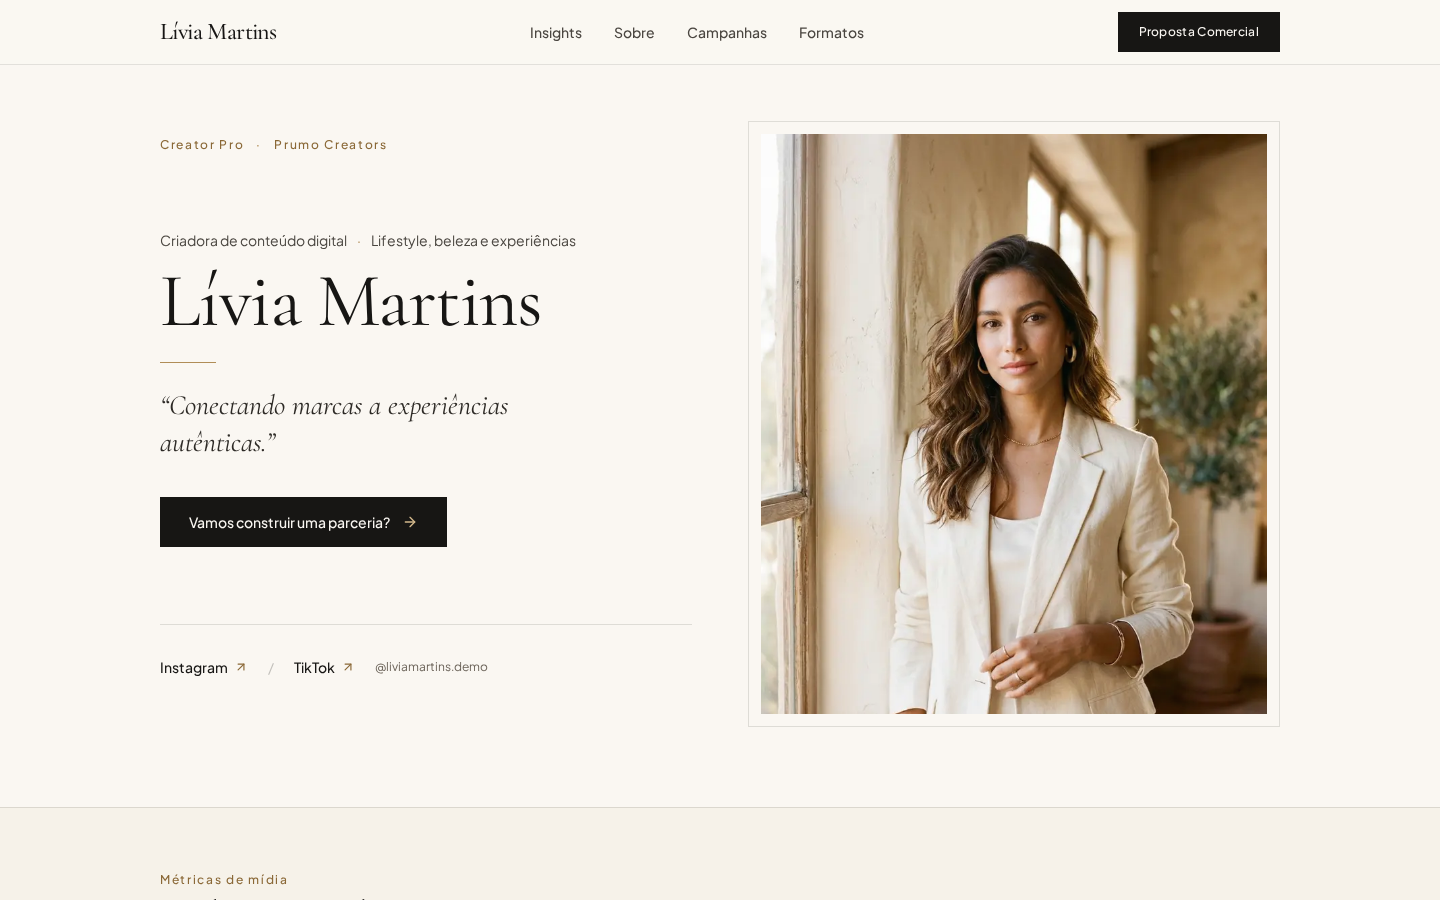
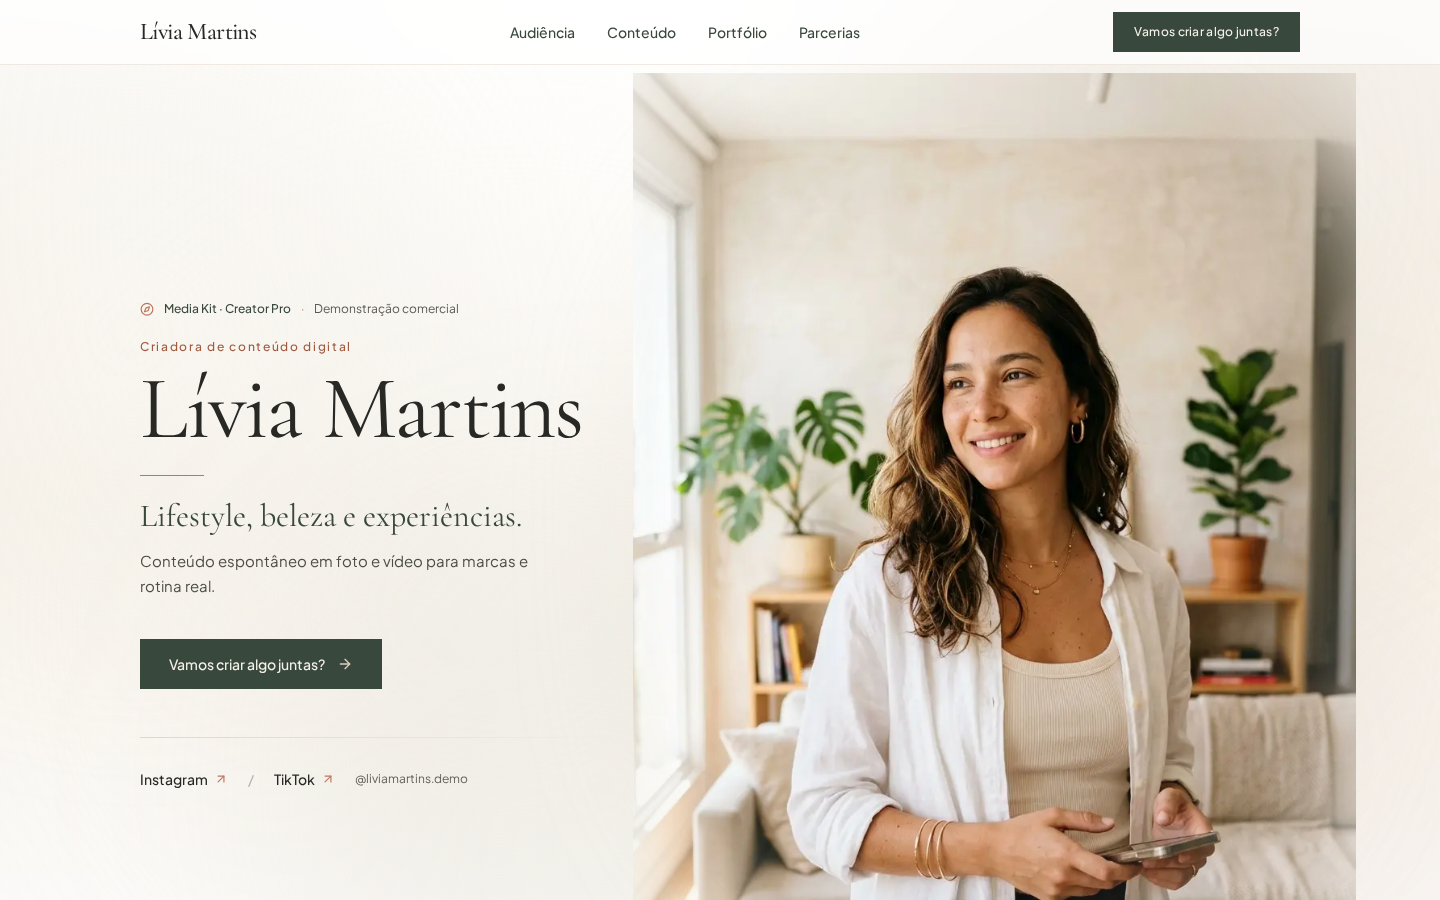
feat(portfolio): implement live site preview component
Add LiveSitePreview component to render interactive site snapshots with automatic scaling and fallback support in the portfolio section.

diff --git a/src/components/PortfolioSection.tsx b/src/components/PortfolioSection.tsx
@@ -34,6 +34,78 @@ const STACK_OFFSETS = [
   { x: -16, y: 14, scale: 0.91, rotate: -2.0, opacity: 0.36, zIndex: 5 },
 ];
 
+function LiveSitePreview({
+  url,
+  title,
+  fallbackImage,
+  fallbackAlt,
+  isFront,
+}: {
+  url: string;
+  title: string;
+  fallbackImage: string | null;
+  fallbackAlt: string;
+  isFront: boolean;
+}) {
+  const containerRef = useRef<HTMLDivElement | null>(null);
+  const [scale, setScale] = useState(0.5);
+  const [iframeLoaded, setIframeLoaded] = useState(false);
+  const [imgError, setImgError] = useState(false);
+
+  useEffect(() => {
+    setIframeLoaded(false);
+  }, [url]);
+
+  useEffect(() => {
+    const el = containerRef.current;
+    if (!el || typeof ResizeObserver === 'undefined') return;
+    const updateScale = () => {
+      const w = el.clientWidth;
+      if (w > 0) setScale(w / 1440);
+    };
+    updateScale();
+    const observer = new ResizeObserver(updateScale);
+    observer.observe(el);
+    return () => observer.disconnect();
+  }, []);
+
+  return (
+    <div ref={containerRef} className="relative w-full h-full overflow-hidden bg-[#0D0D0D]">
+      {fallbackImage && !imgError && (
+        <img
+          src={fallbackImage}
+          alt={fallbackAlt}
+          referrerPolicy="no-referrer"
+          draggable={false}
+          onError={() => setImgError(true)}
+          className={`w-full h-full object-cover object-top select-none transition-transform duration-500 ${
+            isFront ? 'group-hover/media:scale-[1.015]' : ''
+          }`}
+        />
+      )}
+
+      {isFront && (
+        <iframe
+          src={url}
+          title={`Prévia automática ao vivo de ${title}`}
+          loading="lazy"
+          tabIndex={-1}
+          onLoad={() => setIframeLoaded(true)}
+          style={{
+            width: 1440,
+            height: 900,
+            transform: `scale(${scale})`,
+            transformOrigin: 'top left',
+          }}
+          className={`pointer-events-none select-none absolute top-0 left-0 border-0 bg-white transition-opacity duration-500 ${
+            iframeLoaded ? 'opacity-100' : 'opacity-0'
+          }`}
+        />
+      )}
+    </div>
+  );
+}
+
 function DeckCardContent({
   project,
   isFront,
@@ -76,9 +148,17 @@ function DeckCardContent({
           : 'border border-white/15 shadow-[0_18px_45px_rgba(0,0,0,0.55)]'
       }`}
     >
-      {/* Main Area: Real Hero Section Screenshot (+ optional real video hover preview & Lightbox trigger) */}
+      {/* Main Area: Automatic Live Site Preview (when published) + Fallback Screenshot */}
       <div className="relative w-full aspect-[16/10] bg-[#0D0D0D] border-b border-white/10 overflow-hidden group/media">
-        {hasScreenshot ? (
+        {hasLiveUrl ? (
+          <LiveSitePreview
+            url={project.url}
+            title={project.name}
+            fallbackImage={project.heroScreenshot}
+            fallbackAlt={project.screenshotAlt}
+            isFront={isFront}
+          />
+        ) : hasScreenshot ? (
           <img
             src={project.heroScreenshot!}
             alt={project.screenshotAlt}
@@ -262,9 +342,17 @@ function ProjectLightbox({
           </button>
         </div>
 
-        {/* Enlarged Visual Stage */}
+        {/* Enlarged Live Interactive Stage */}
         <div className="relative flex-1 min-h-0 bg-[#0D0D0D] overflow-auto flex items-center justify-center p-3 sm:p-6">
-          {project.heroScreenshot ? (
+          {hasLiveUrl ? (
+            <div className="w-full h-[64vh] bg-white overflow-hidden">
+              <iframe
+                src={project.url}
+                title={`Visualização ao vivo de ${project.name}`}
+                className="w-full h-full border-0 bg-white"
+              />
+            </div>
+          ) : project.heroScreenshot ? (
             <img
               src={project.heroScreenshot}
               alt={project.screenshotAlt}
